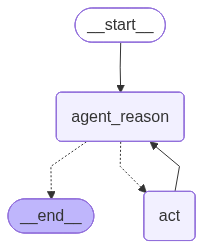
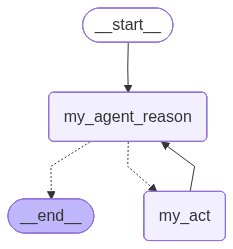
flow explaination

diff --git a/main.py b/main.py
@@ -5,8 +5,8 @@ from nodes import run_agent_reason, tool_node
 
 load_dotenv()
 
-AGENT_REASON="agent_reason"
-ACT= "act"
+AGENT_REASON="my_agent_reason"
+ACT= "my_act"
 LAST = -1
 
 def should_continue(state:MessagesState) -> str:
@@ -14,11 +14,17 @@ def should_continue(state:MessagesState) -> str:
         return END
     return ACT
 
-
+# Create an empty LangGraph workflow named flow. StateGraph is the builder for a
+# stateful graph. MessageState is the Schema for shared state passed between nodes. Its
+# essentially a list of chat messages (HumanMessage, AIMessage, ToolMessage etc)
 flow = StateGraph(MessagesState)
+# Add nodes to the stateful graph. Nodes are nothing but functions. Hear AGENT_REASON is
+# a readable name that you give to node and run_agent_reasonn is actual function name
 flow.add_node(AGENT_REASON, run_agent_reason)
-flow.set_entry_point(AGENT_REASON)
 flow.add_node(ACT,tool_node)
+
+flow.set_entry_point(AGENT_REASON)
+
 flow.add_conditional_edges(AGENT_REASON,should_continue,{
     END:END,
     ACT:ACT})

diff --git a/nodes.py b/nodes.py
@@ -17,7 +17,7 @@ SYSTEM_MESSAGE="""You are a helpful assistant that can use tools to answer quest
 
 def run_agent_reason(state: MessagesState) -> MessagesState:
     """
-    Run the agen reasoning node.
+    Run the agent reasoning node.
     """
     response = llm.invoke([{"role": "system","content": SYSTEM_MESSAGE}, *state["messages"]])
     return {"messages":[response]}

diff --git a/README.md b/README.md
@@ -1,0 +1,23 @@
+# Node
+A node is a single step in your workflow that receives the current state, does one piece of work and returns an update to that state.
+A node can be a function (e.g. run_agent_reason), or a prebuilt callable (e.g. ToolNode(tools)), or any Runnable LangChain/LangGraph object with an .invoke() mentod
+In our example, there are two nodes
+## run_agent_reason
+This is a function which is invoking LLM with System Message and MessageState. LLM will update the MessageState and return it as the response.
+## ToolNode
+It is a prebuilt callable which runs the tools the LLM requested.
+# MessageState
+Think of MessagesState as the conversation transcript that all nodes share. Each node reads the transcript, does its job, and adds to it — LangGraph handles the merging.
+It is the shared state schema for chat-style agents. Its key is "messages" and value is a list of Messages which can be one more combination of HumanMessage, AIMessage and ToolMessage.
+When a node returns:
+return {"messages": [response]}
+LangGraph doesn’t replace the whole list. It appends (or intelligently merges) into the existing messages list. That’s how conversation history builds up across the ReAct loop.
+# Steps
+1. Node my_agent_reason is the entry point. So Langraph first calls run_agent_reason(state) Its input is the MessageState with only HumanMessage - "What is the weaather in Tokyo? List it and then triple it"
+2. This node (my_agent_reason) invokes LLM. With SystemMessage ("You are a helpful assistant that can use tools to answer questions"). Remember this LLM is already having binding of the tools - TavilySearch and Triple.
+3. LLM updates the MessageState and appends its response to existing message. It will append MessageState with AIMessage with the tool call of tavily_search("current weather in Tokyo")
+4. As per our langraph if MessageState last message is a tool call, then LangGraph should invoke ToolNode. So next LangGraph calls tool_node.invoke(state)it moves to the node ToolNode(tools). ToolNode compare the tool that it has with the MessageState and since last message is asking to invoke TavliySearch, it will invoke TavlilySearch and update the MessageState with ToolMessage which is basically Search Ouput.
+5. As per our langraph after call to ToolNode, it should call my_agent_reason. Now when it calls my_agent_reason, its MessageState will also include ToolMessage (Search result). So now when it will invoke LLM, LLM will update the StateMessage with tool call suggestion for triple.
+6. As per our langraph if MessageState last message is a tool call, then LangGraph should invoke ToolNode. So next LangGraph calls tool_node.invoke(state)it moves to the node ToolNode(tools). ToolNode compare the tool that it has with the MessageState and since last message is asking to invoke Triple, it will invoke Tiple and update the MessageState with ToolMessage which is basically a number which is the triple of current temperature.
+7. As per our langraph after call to ToolNode, it should call my_agent_reason. Now when it calls my_agent_reason, its MessageState will also have ToolMessage (Final result after tripling the temperatue). So now when it will invoke LLM, LLM will update the StateMessage with final result by paraphrasing the respone.
+8. Since now there is no tool call so this will call END.